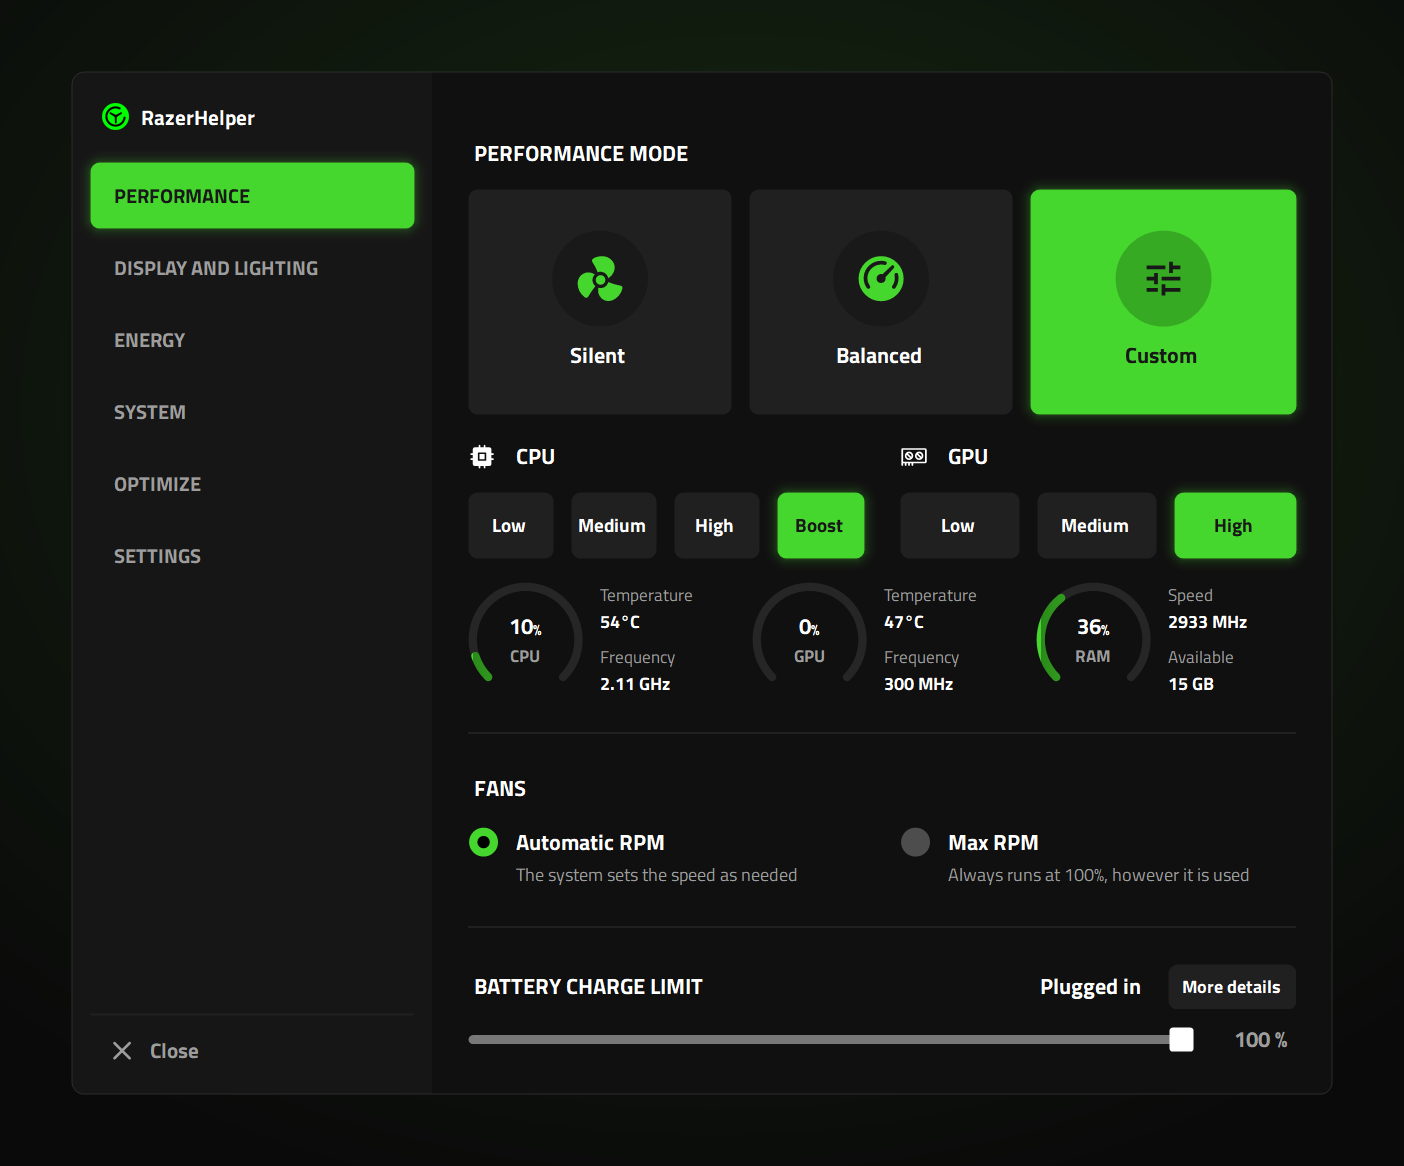
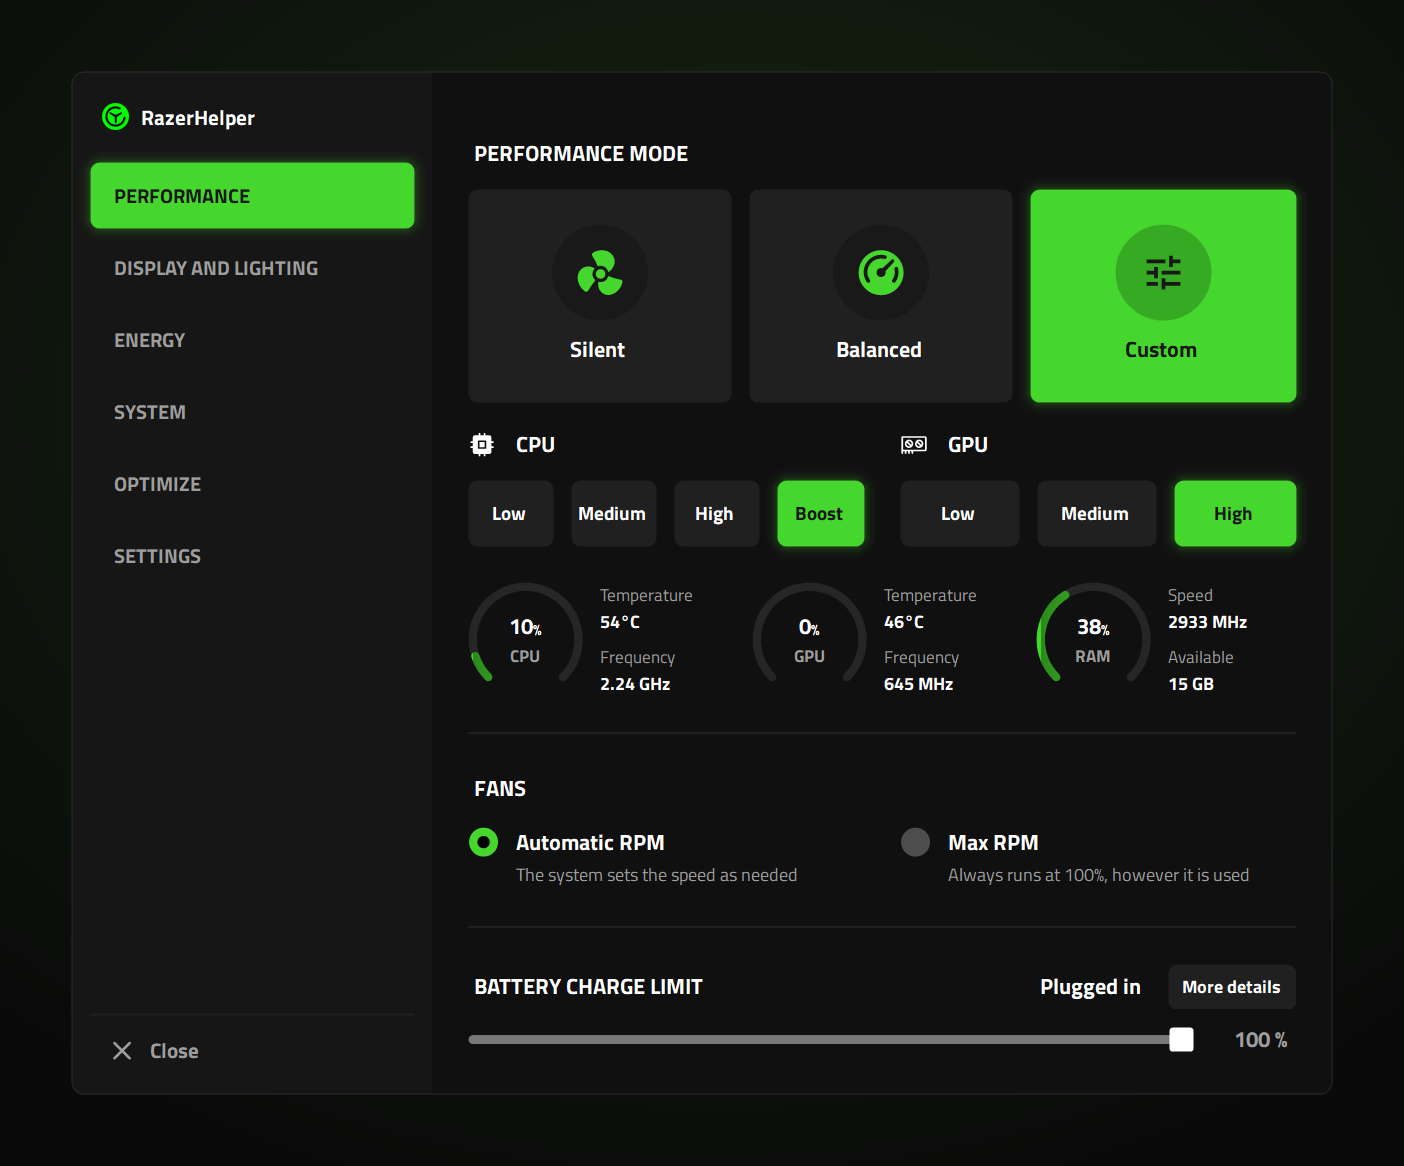
Shortens the performance mode buttons by 8px and opens 8px more above the usage rings

diff --git a/src/RazerHelper/UI/Pages/SectionStack.cs b/src/RazerHelper/UI/Pages/SectionStack.cs
@@ -17,7 +17,7 @@ internal sealed class SectionStack : TableLayoutPanel
     // Measured from a glowing row's glow room, which adds its own 12px.
     private static int JoinedGap => S(16) - UiControls.GlowRoom;
 
-    private readonly List<(Control Section, Func<int> Height, bool Joined, bool Wide)> _rows = [];
+    private readonly List<(Control Section, Func<int> Height, bool Joined, bool Wide, int ExtraGap)> _rows = [];
 
     public SectionStack()
     {
@@ -35,9 +35,10 @@ internal sealed class SectionStack : TableLayoutPanel
     /// <param name="height">The section's own height, without the gap below it; asked again on every <see cref="Relayout"/>.</param>
     /// <param name="joined">Part of the section above: close under it, with no line between.</param>
     /// <param name="wide">Holds glowing buttons, so it fills the stack's whole width and keeps its own glow room.</param>
-    public void AddSection(Control section, Func<int> height, bool joined = false, bool wide = false)
+    /// <param name="extraGap">More room above a joined section than the usual close gap.</param>
+    public void AddSection(Control section, Func<int> height, bool joined = false, bool wide = false, int extraGap = 0)
     {
-        _rows.Add((section, height, joined, wide));
+        _rows.Add((section, height, joined, wide, extraGap));
         RowCount = _rows.Count;
         RowStyles.Add(new RowStyle(SizeType.Absolute, 0));
         Controls.Add(section, 0, _rows.Count - 1);
@@ -51,9 +52,9 @@ internal sealed class SectionStack : TableLayoutPanel
 
         for (var index = 0; index < _rows.Count; index++)
         {
-            var (section, height, _, wide) = _rows[index];
+            var (section, height, _, wide, _) = _rows[index];
             var own = height();
-            var gap = own > 0 && NextShown(index) is { } next ? (_rows[next].Joined ? JoinedGap : SectionPanel.GapBelow) : 0;
+            var gap = own > 0 && NextShown(index) is { } next ? (_rows[next].Joined ? JoinedGap + _rows[next].ExtraGap : SectionPanel.GapBelow) : 0;
 
             var side = wide ? 0 : UiControls.GlowRoom;
             section.Margin = new Padding(side, 0, side, gap);

diff --git a/src/RazerHelper/UI/Pages/PerformancePage.cs b/src/RazerHelper/UI/Pages/PerformancePage.cs
@@ -24,9 +24,9 @@ internal sealed class PerformancePage : PageView
     {
         _custom = new CustomBoostPanel(performance.BoostSelectors) { Visible = false };
 
-        _stack.AddSection(performance, () => SectionHeaderHeight + S(150) + GlowRoom, wide: true);
+        _stack.AddSection(performance, () => SectionHeaderHeight + S(142) + GlowRoom, wide: true);
         _stack.AddSection(_custom, () => _customShown ? CustomBoostPanel.PanelHeight : 0, joined: true, wide: true);
-        _stack.AddSection(_gauges, () => UsageGauges.GaugesHeight, joined: true);
+        _stack.AddSection(_gauges, () => UsageGauges.GaugesHeight, joined: true, extraGap: S(8));
         _stack.AddSection(fans, () => SectionHeaderHeight + RadioOption.PreferredHeight +
             (fans.AreReadingsShown ? FanSection.ReadingsHeight : 0));
         _stack.AddSection(battery, () => BatterySection.ContentHeight);
